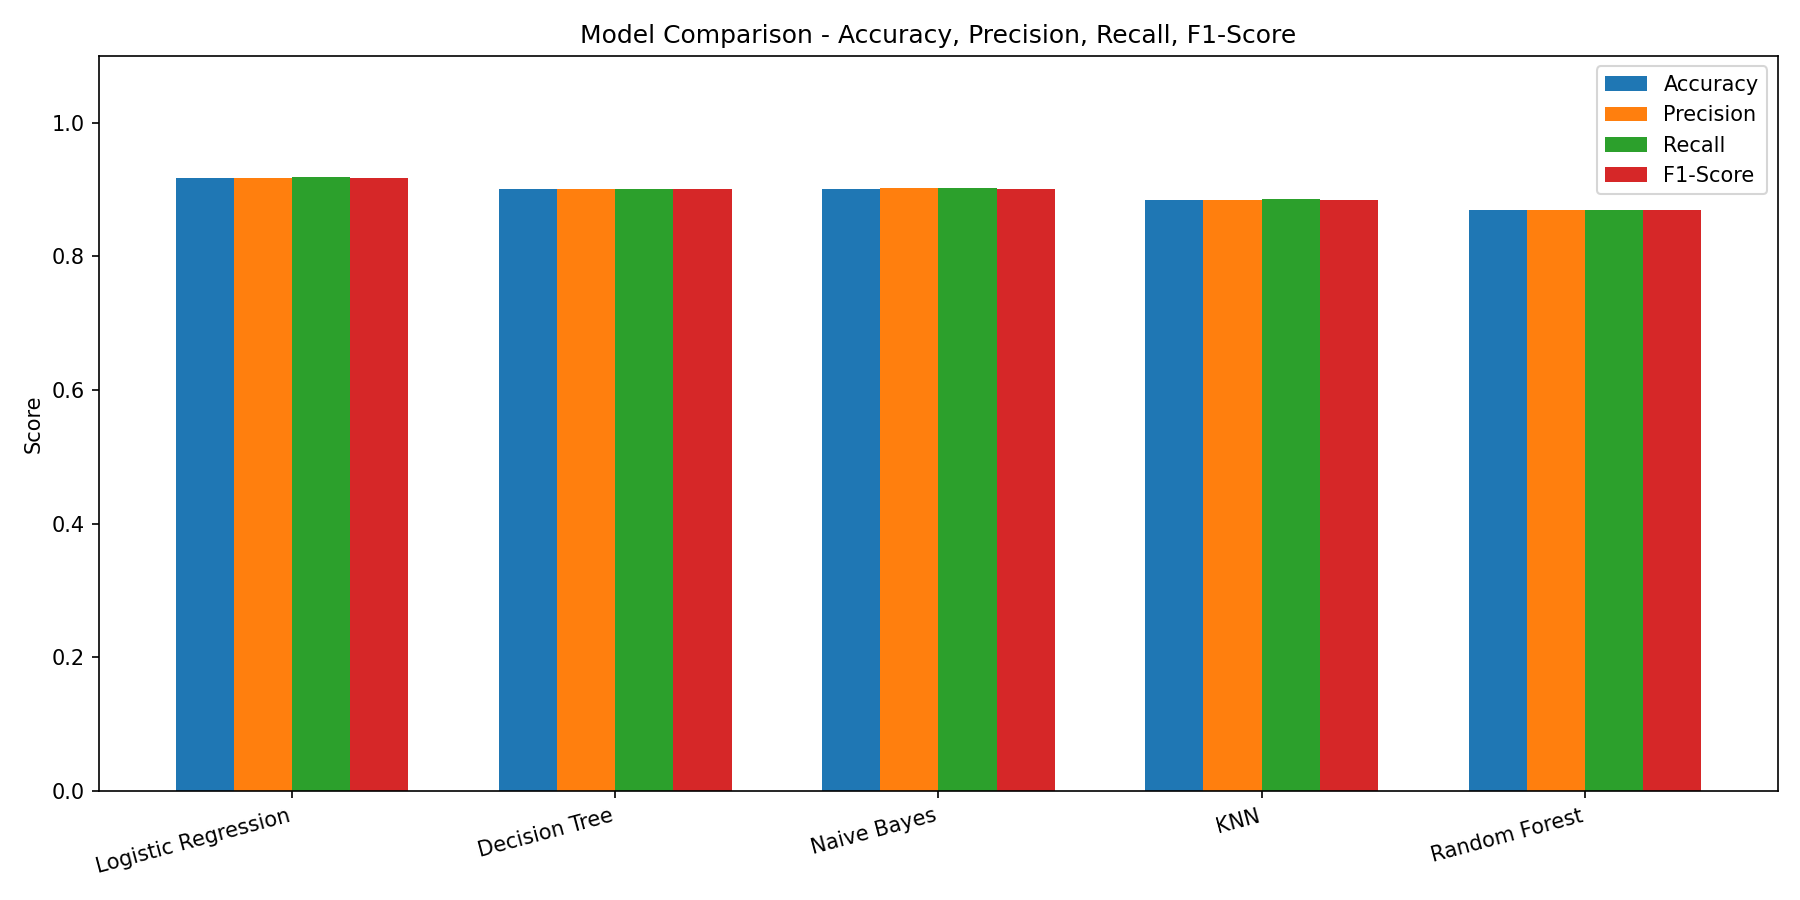
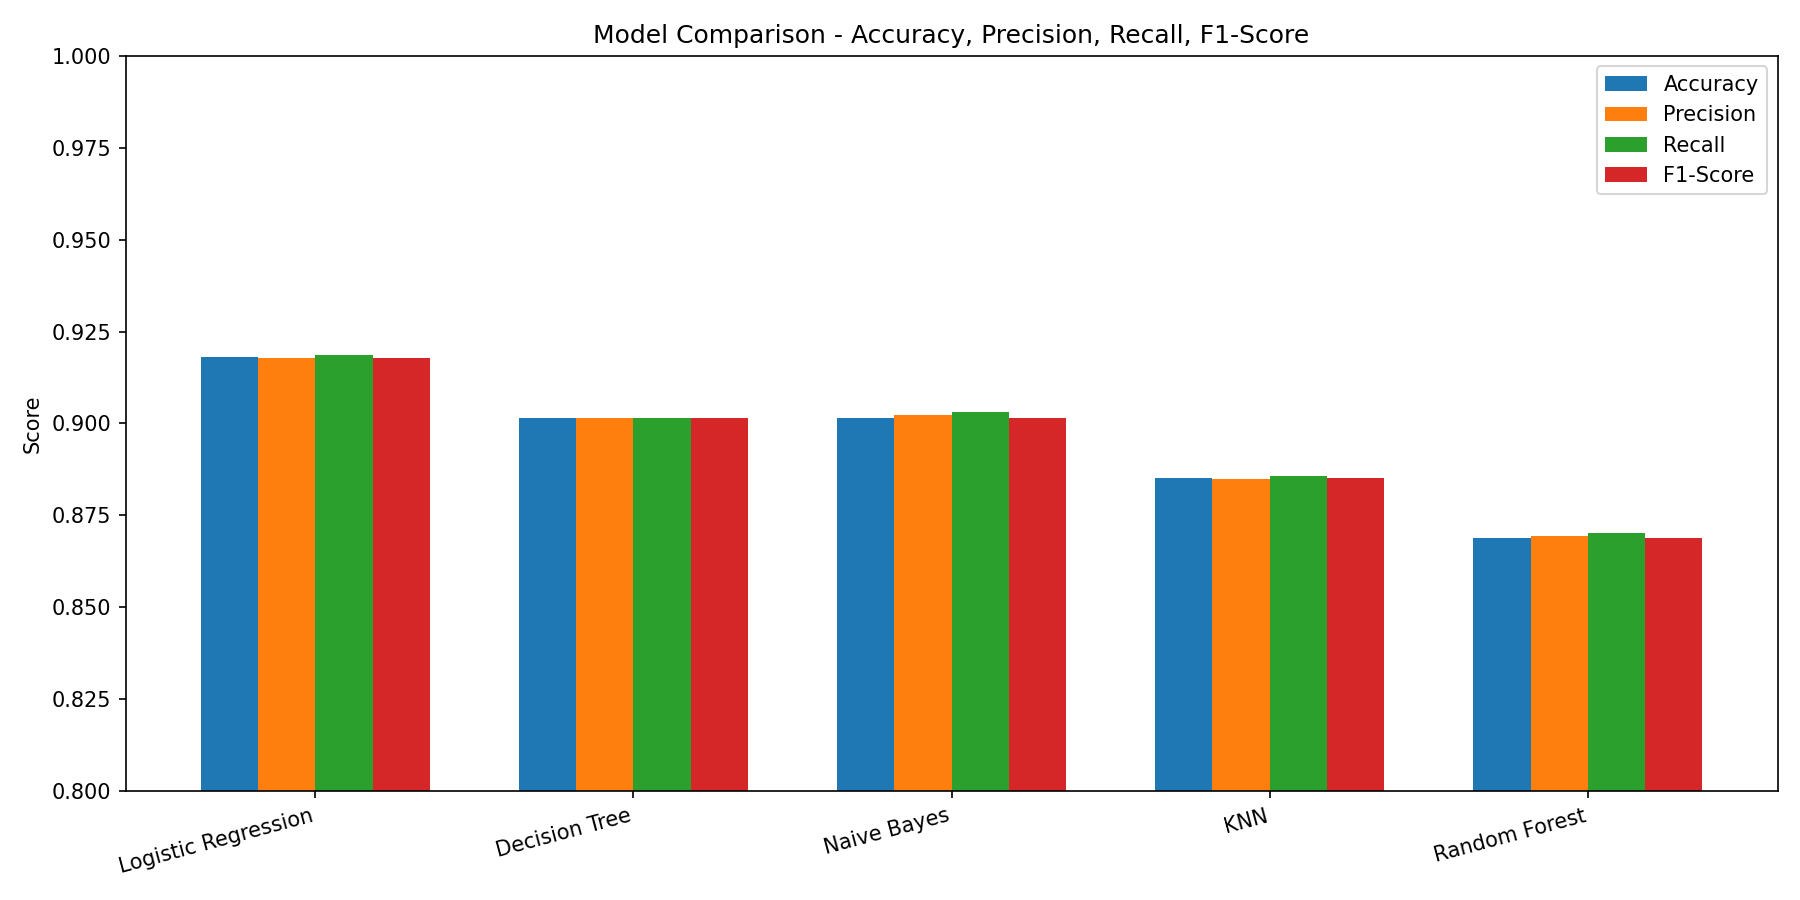
baba

diff --git a/heart_preprocessing.py b/heart_preprocessing.py
@@ -17,28 +17,45 @@ TARGET_COLUMN = "target"
 os.makedirs("outputs", exist_ok=True)
 os.makedirs(PLOTS_DIR, exist_ok=True)
 
-
-# Load data
+print("--- 1. Load ---")
 df = pd.read_csv(INPUT_PATH)
+print(f"  {df.shape[0]} rows, {df.shape[1]} columns")
 
-
-# Column types
 categorical_cols = [c for c in CATEGORICAL_COLUMNS if c in df.columns]
 numerical_cols = [c for c in df.columns if c not in categorical_cols + [TARGET_COLUMN]]
 
-
-# Clean data
+print("\n--- 2. Clean ---")
+before = len(df)
 df = df.drop_duplicates().reset_index(drop=True)
+print(f"  Duplicates removed: {before - len(df)}  |  rows remaining: {len(df)}")
+
 df[TARGET_COLUMN] = df[TARGET_COLUMN].astype(int)
 
+num_filled = 0
 for col in numerical_cols:
-    df[col] = df[col].fillna(df[col].median())
+    missing = df[col].isna().sum()
+    if missing:
+        df[col] = df[col].fillna(df[col].median())
+        print(f"  '{col}': {missing} missing → filled with median")
+        num_filled += missing
+    else:
+        df[col] = df[col].fillna(df[col].median())
 
+cat_filled = 0
 for col in categorical_cols:
-    df[col] = df[col].fillna(df[col].mode().iloc[0])
+    missing = df[col].isna().sum()
+    if missing:
+        mode_val = df[col].mode().iloc[0]
+        df[col] = df[col].fillna(mode_val)
+        print(f"  '{col}': {missing} missing → filled with mode ({mode_val})")
+        cat_filled += missing
+    else:
+        df[col] = df[col].fillna(df[col].mode().iloc[0])
 
+if num_filled == 0 and cat_filled == 0:
+    print("  No missing values.")
 
-# Detect outliers
+print("\n--- 3. Outliers (IQR) ---")
 outlier_rows = []
 for col in numerical_cols:
     q1, q3 = df[col].quantile([0.25, 0.75])
@@ -47,14 +64,15 @@ for col in numerical_cols:
     upper = q3 + 1.5 * iqr
     count = ((df[col] < lower) | (df[col] > upper)).sum()
     outlier_rows.append([col, q1, q3, iqr, lower, upper, count])
+    flag = " <<<" if count > 0 else ""
+    print(f"  {col:<12}  bounds=[{lower:.3g}, {upper:.3g}]  outliers={count}{flag}")
 
 pd.DataFrame(
     outlier_rows,
     columns=["feature", "q1", "q3", "iqr", "lower_bound", "upper_bound", "outlier_count"],
 ).to_csv("outputs/outlier_summary.csv", index=False)
 
-
-# Boxplots
+print("\n--- 4. Plots ---")
 for col in numerical_cols:
     plt.figure(figsize=(6, 4))
     sns.boxplot(x=df[col])
@@ -63,28 +81,28 @@ for col in numerical_cols:
     plt.savefig(os.path.join(PLOTS_DIR, f"boxplot_{col}.png"), dpi=150)
     plt.close()
 
-
-# Correlation heatmap
 plt.figure(figsize=(12, 8))
 sns.heatmap(df.corr(numeric_only=True), annot=True, cmap="coolwarm")
 plt.title("Correlation Heatmap")
 plt.tight_layout()
 plt.savefig(os.path.join(PLOTS_DIR, "correlation_heatmap.png"), dpi=150)
 plt.close()
+print(f"  Saved {len(numerical_cols)} boxplots + correlation heatmap → {PLOTS_DIR}/")
 
-
-# Save cleaned data for analysis plots (before encoding)
 df.to_csv("outputs/processed_data.csv", index=False)
 
+print("\n--- 5. Encoding ---")
 target = df[TARGET_COLUMN]
 features = df.drop(columns=[TARGET_COLUMN])
 
 for col in categorical_cols:
-    drop_first = features[col].nunique() == 2
+    unique_vals = features[col].nunique()
+    drop_first = unique_vals == 2
     dummies = pd.get_dummies(features[col], columns=[col], prefix=col, drop_first=drop_first).astype(int)
     features = pd.concat([features.drop(columns=[col]), dummies], axis=1)
+print(f"  One-hot encoded {len(categorical_cols)} columns → {features.shape[1]} total features")
 
-
+print("\n--- 6. Split (80/20) ---")
 X_train, X_test, y_train, y_test = train_test_split(features, target, test_size=0.2, random_state=42)
 
 X_train.to_csv("outputs/X_train.csv", index=False)
@@ -92,7 +110,8 @@ X_test.to_csv("outputs/X_test.csv", index=False)
 y_train.to_csv("outputs/y_train.csv", index=False)
 y_test.to_csv("outputs/y_test.csv", index=False)
 
+print(f"  Train: {X_train.shape[0]}  |  Test: {X_test.shape[0]}")
 
-# Save full encoded dataset (unscaled) for backward-compatible analysis
 final = pd.concat([features, target], axis=1)
 final.to_csv(OUTPUT_PATH, index=False)
+print("\nPreprocessing complete.")

diff --git a/model_logistic_regression.py b/model_logistic_regression.py
@@ -15,10 +15,12 @@ y_test = pd.read_csv("outputs/y_test.csv").squeeze()
 model = Pipeline(
     [
         ("scaler", StandardScaler()),
-        ("feature_selection", SelectKBest(score_func=f_classif, k=11)),
-        ("classifier", LogisticRegression(max_iter=1000, C=1, solver="lbfgs", random_state=42)),
+        ("feature_selection", SelectKBest(k=11)),
+        ("classifier", LogisticRegression(max_iter=1000)),
     ]
 )
+# from 11 to 15 no change in accuracy
+
 model.fit(X_train, y_train)
 predicted = model.predict(X_test)
 

diff --git a/model_comparison.py b/model_comparison.py
@@ -53,7 +53,7 @@ for i, metric in enumerate(metrics):
 ax.set_xticks(x + width * 1.5)
 ax.set_xticklabels(df["Model"], rotation=15, ha="right")
 ax.set_ylabel("Score")
-ax.set_ylim(0, 1.1)
+ax.set_ylim(0.8, 1.0)
 ax.set_title("Model Comparison - Accuracy, Precision, Recall, F1-Score")
 ax.legend()
 plt.tight_layout()
